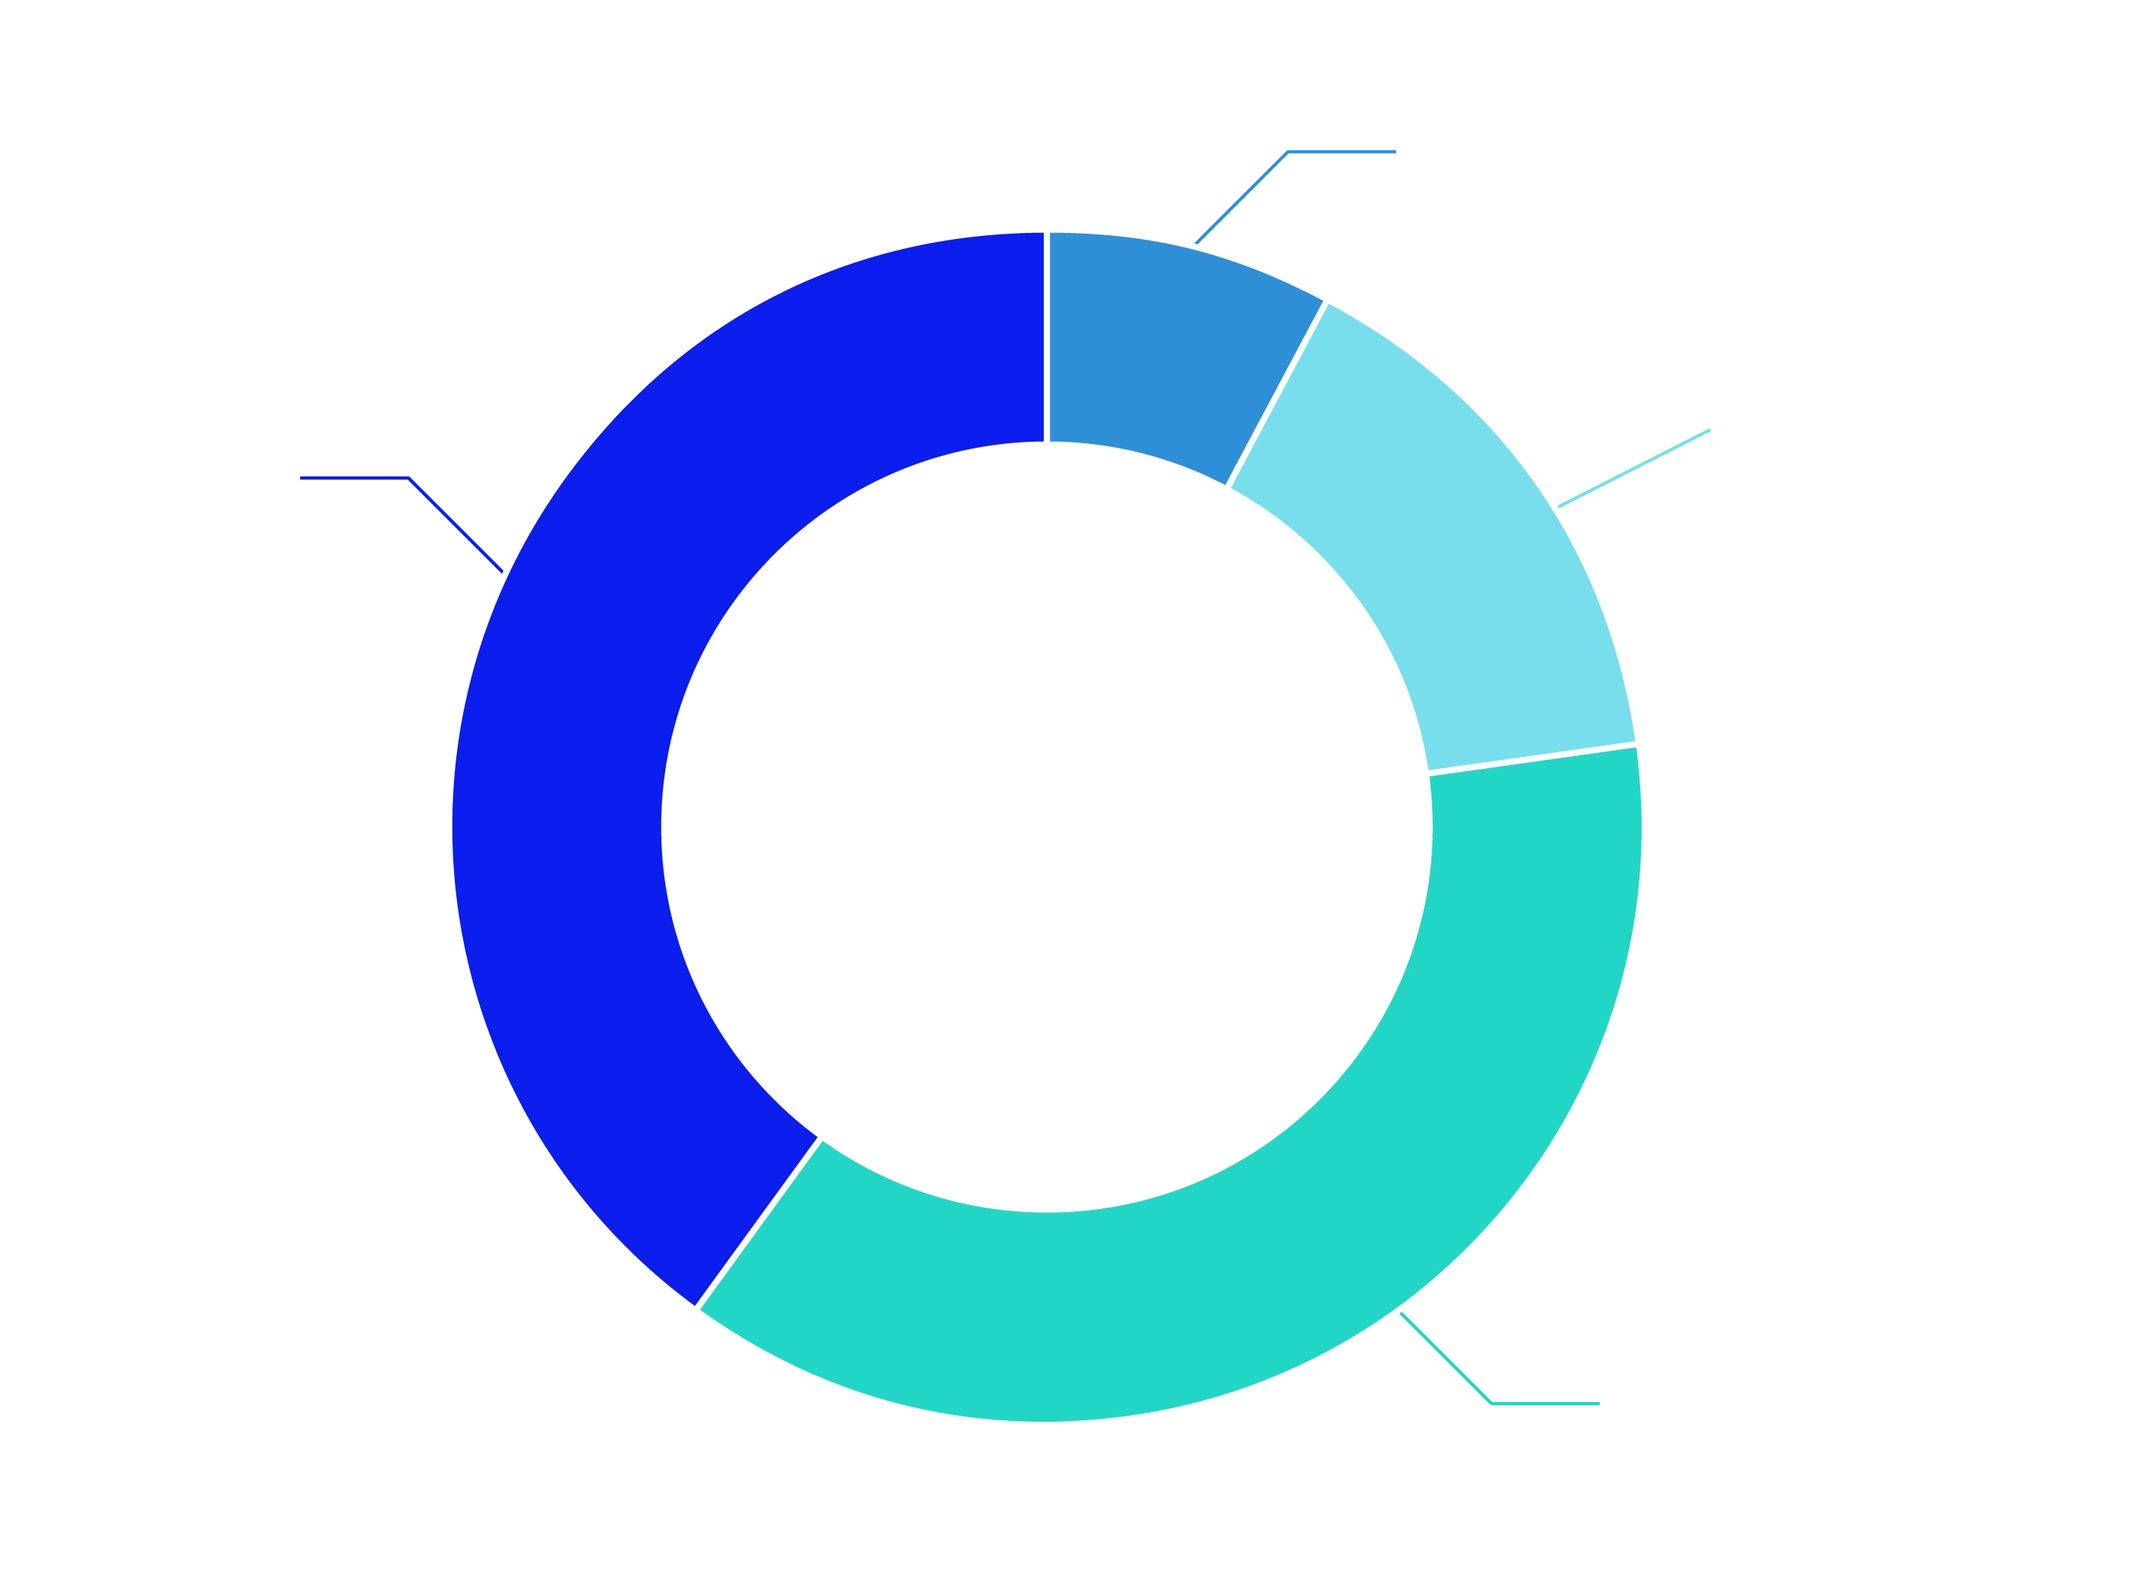
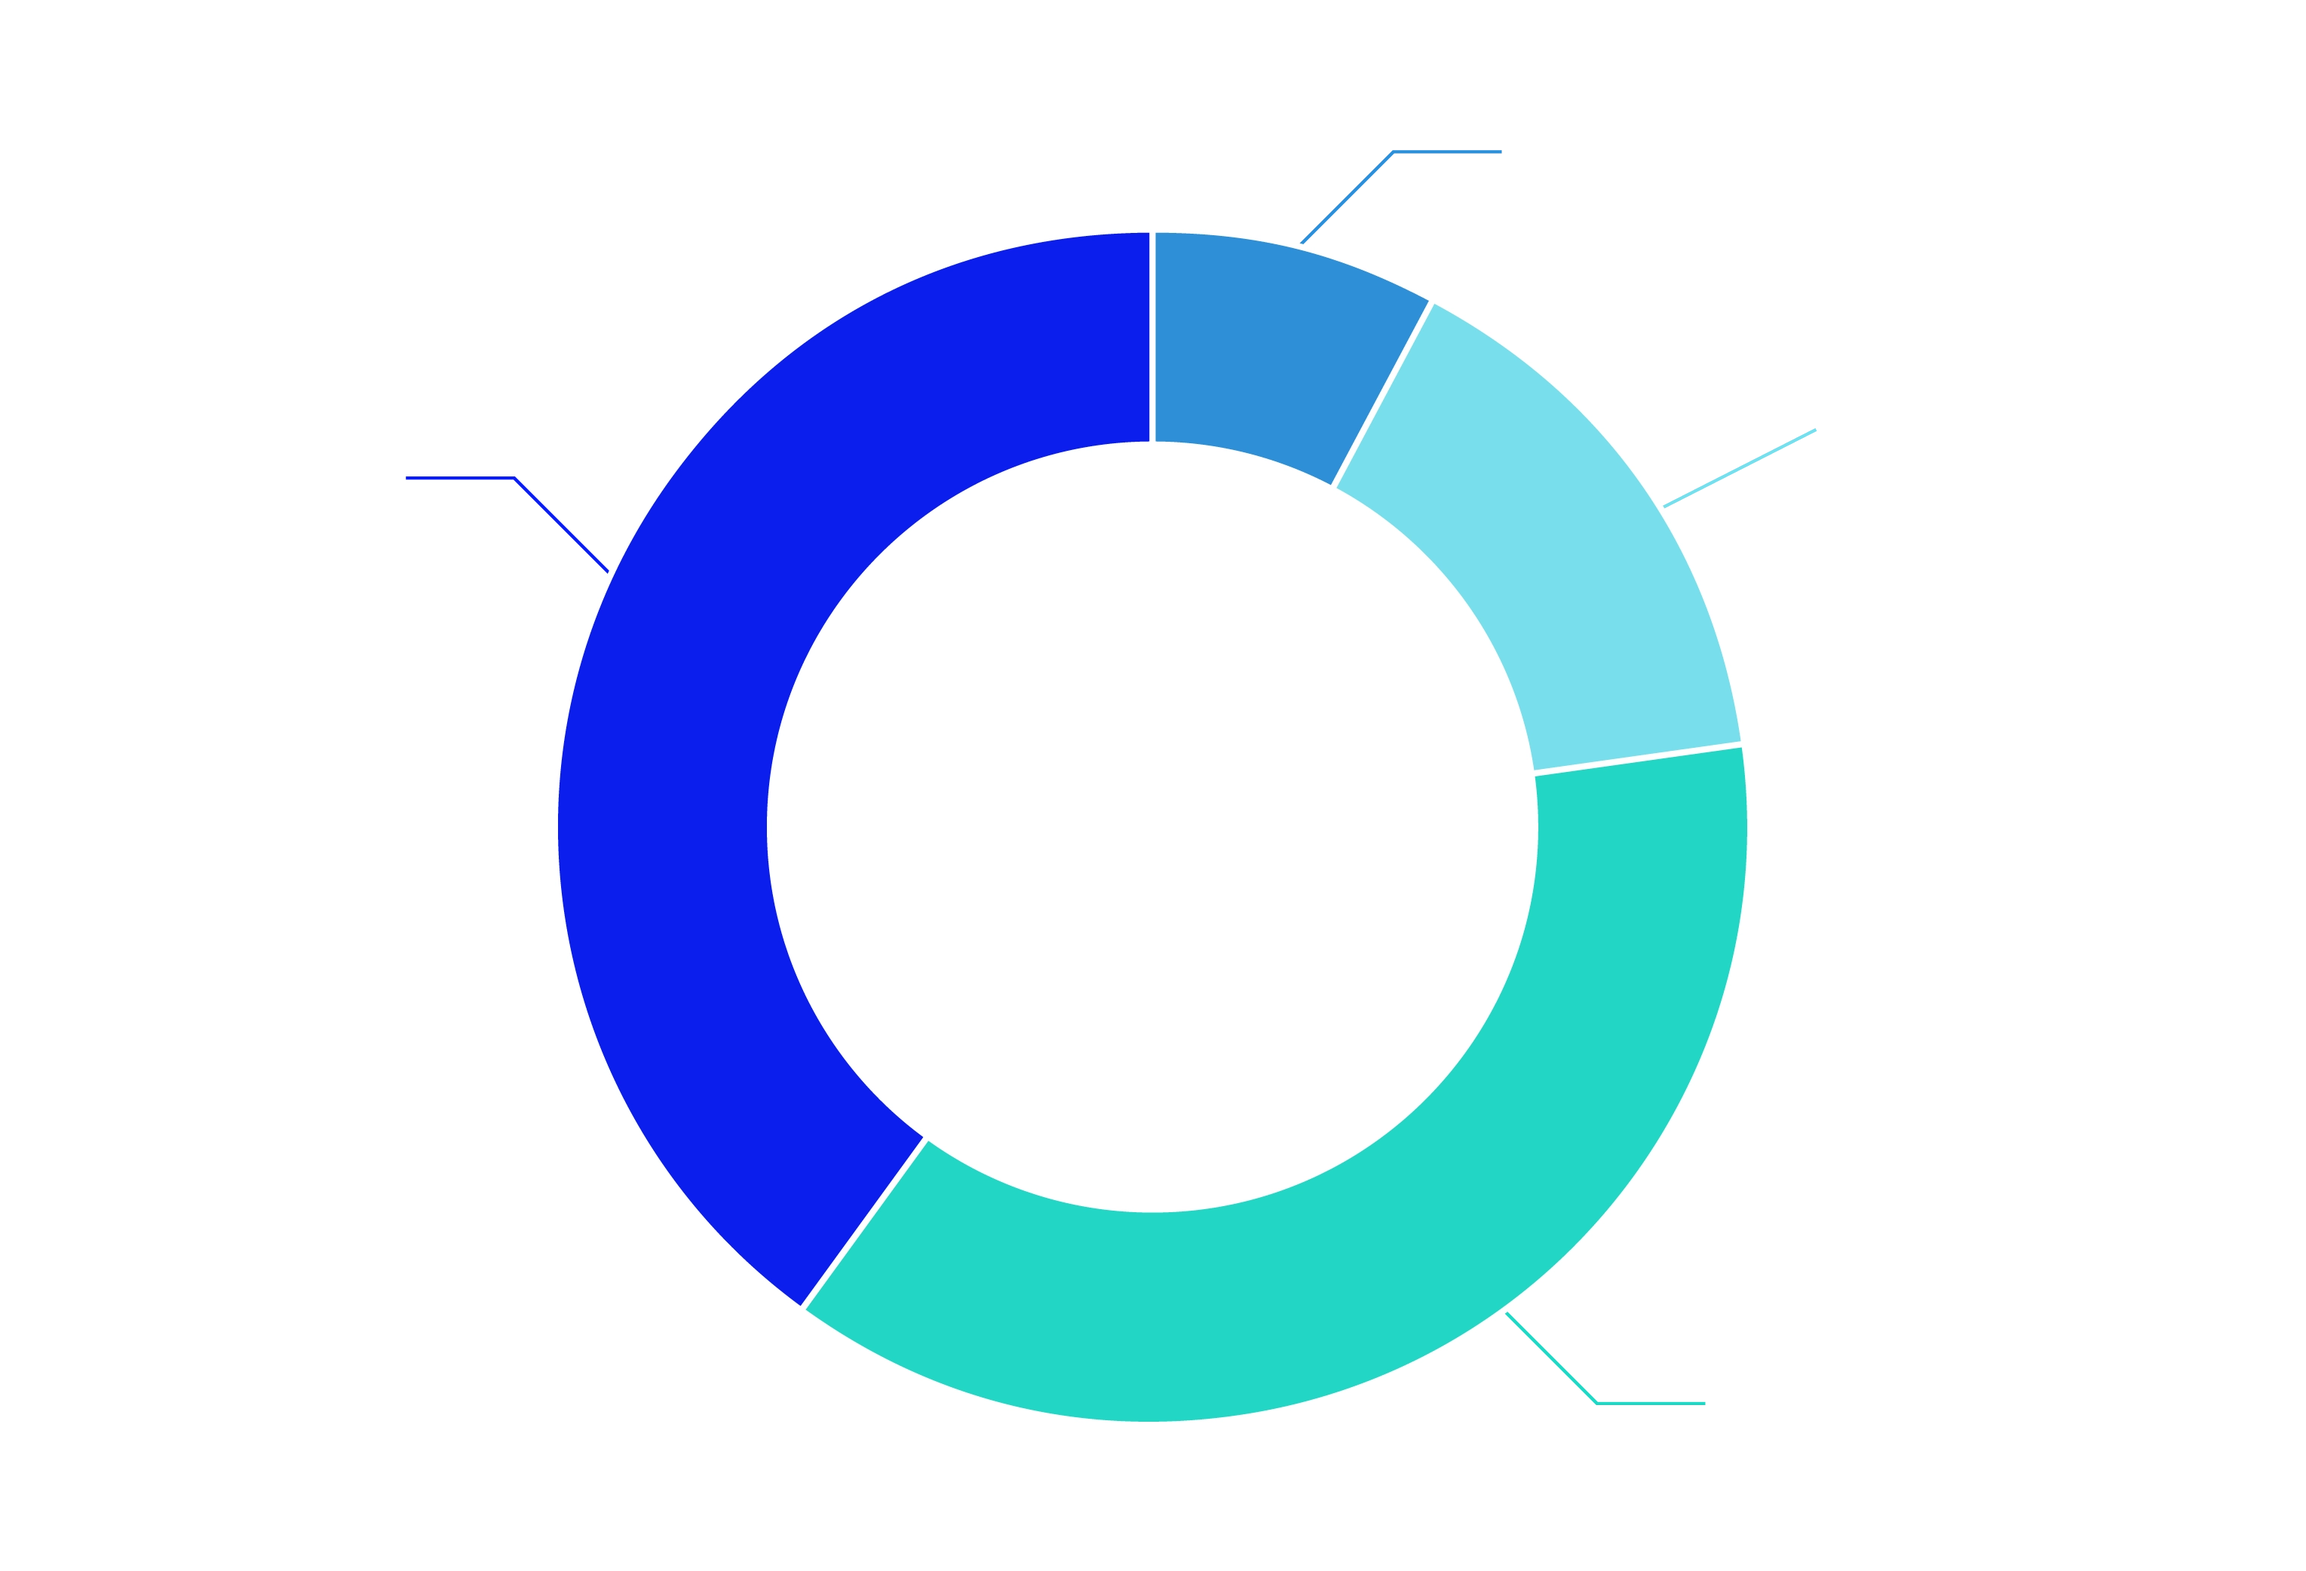
add roadmap and token allocation to front page

diff --git a/src/app/page.tsx b/src/app/page.tsx
@@ -16,14 +16,26 @@ import Image from 'next/image';
 export default function Home() {
   const sectionRefCards = useRef(null);
   const sectionRefTokenomics = useRef(null);
+  const sectionRefRoadmap = useRef(null);
   const sectionRefContact = useRef(null);
   const sectionRefFaq = useRef(null);
   const observerOptions = { threshold: 0.05 };
-  const [isVisibleCards, isVisibleTokenomics, isVisibleContact, isVisibleFaq] =
-    useMultipleIntersectionObserver(
-      [sectionRefCards, sectionRefContact, sectionRefFaq],
-      observerOptions
-    );
+  const [
+    isVisibleCards,
+    isVisibleRoadmap,
+    isVisibleTokenomics,
+    isVisibleContact,
+    isVisibleFaq,
+  ] = useMultipleIntersectionObserver(
+    [
+      sectionRefCards,
+      sectionRefTokenomics,
+      sectionRefRoadmap,
+      sectionRefContact,
+      sectionRefFaq,
+    ],
+    observerOptions
+  );
 
   const faqs = [
     {
@@ -97,7 +109,47 @@ export default function Home() {
         md:min-h-[600px]
         `}
       >
-        <div className="md:w-[80%] lg:w-[70%] mx-auto">
+        <div className="mx-auto md:w-[80%] lg:w-[70%]">
+          <h2 className="mb-4 text-center text-4xl text-seaBlue-700 dark:text-gray-300">
+           SCI Token Allocation
+          </h2>
+          <div className="flex items-center justify-center sm:w-full lg:max-w-[1000px]">
+            <Image
+              alt="Overview of SCI token allocation"
+              width={1000}
+              height={1000}
+              layout="responsive"
+              src="/allocation-white.webp"
+              className="hidden dark:flex"
+            />
+            <Image
+              alt="Overview of SCI token allocation"
+              width={1000}
+              height={1000}
+              layout="responsive"
+              src="/allocation-black.webp"
+              className="flex dark:hidden"
+            />
+          </div>
+        </div>
+      </section>
+      <Divider />{' '}
+      <section
+        ref={sectionRefRoadmap}
+        className={`${isVisibleRoadmap ? 'animate-fadeUp' : ''} 
+        my-16
+        flex
+        min-h-[300px]
+        w-full
+        items-center
+        justify-center
+        px-8
+        sm:min-h-[400px]
+        sm:px-16
+        md:min-h-[600px]
+        `}
+      >
+        <div className="mx-auto md:w-[80%] lg:w-[70%]">
           <Image
             src={'/roadmap.webp'}
             className="rounded-3xl"
